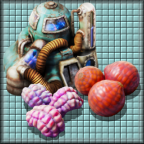
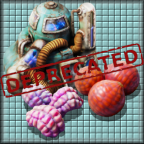
refactor: migrate to frozen food and more

Changed region(s): [[0.0, 0.2778, 1.0, 0.6944]]

diff --git a/README.md b/README.md
@@ -1,28 +1,6 @@
 [![The Foundry](https://img.shields.io/badge/foundrygg-4a1402?style=for-the-badge&logo=vercel&logoColor=white)](https://foundrygg.com/)
 [![Discord community](https://img.shields.io/badge/Discord-%235865F2.svg?style=for-the-badge&logo=discord&logoColor=white)](https://discord.gg/SYmkaDjFCt)
-[![Factorio mod portal](https://img.shields.io/factorio-mod-portal/dt/frozen-food-aquilo-seabloom-algaculture?style=for-the-badge&logo=data%3Aimage%2Fx-icon%3Bbase64%2CAAABAAEAEBAAAAEACABoBQAAFgAAACgAAAAQAAAAIAAAAAEACAAAAAAAAAEAAAAAAAAAAAAAAAEAAAAAAAAAAAAALzAtABIVFwBBOSwAISYpAB0iJACTfFQAICQnAEk%2FLAAcICIAsZZlADs4MABsXUIAd2hMAINzVgChi2QAPTozAIt6WwAWGhsAs5prABwgIwC1nG4AKSglAEpGOwBhVDwAGx4hAGJUPABoXkkAMiwiAGleSQCwmW8AtJpsALigdABnXEcAi3ZPAFhNOACDb0sAIicqAEtCLwAxMzEAEhQWAE1EMgAgJSgAISUoAJV%2FWACrkmQAHyMmAIFwUgAbHyEAsJVkAG5gRgAXGxwAHSEkAKCKYwCzmWoAsJhtACIhHAAbHyIAeWtRADo3MACxmnAAtZttACMoKgAaHSAAPzcoABYZGwASFRYAX1ZEAINwTABKRTsAIygrAJqDWABoXUkAHyQmAAAAAAAAAAAAAAAAAAAAAAAAAAAAAAAAAAAAAAAAAAAAAAAAAAAAAAAAAAAAAAAAAAAAAAAAAAAAAAAAAAAAAAAAAAAAAAAAAAAAAAAAAAAAAAAAAAAAAAAAAAAAAAAAAAAAAAAAAAAAAAAAAAAAAAAAAAAAAAAAAAAAAAAAAAAAAAAAAAAAAAAAAAAAAAAAAAAAAAAAAAAAAAAAAAAAAAAAAAAAAAAAAAAAAAAAAAAAAAAAAAAAAAAAAAAAAAAAAAAAAAAAAAAAAAAAAAAAAAAAAAAAAAAAAAAAAAAAAAAAAAAAAAAAAAAAAAAAAAAAAAAAAAAAAAAAAAAAAAAAAAAAAAAAAAAAAAAAAAAAAAAAAAAAAAAAAAAAAAAAAAAAAAAAAAAAAAAAAAAAAAAAAAAAAAAAAAAAAAAAAAAAAAAAAAAAAAAAAAAAAAAAAAAAAAAAAAAAAAAAAAAAAAAAAAAAAAAAAAAAAAAAAAAAAAAAAAAAAAAAAAAAAAAAAAAAAAAAAAAAAAAAAAAAAAAAAAAAAAAAAAAAAAAAAAAAAAAAAAAAAAAAAAAAAAAAAAAAAAAAAAAAAAAAAAAAAAAAAAAAAAAAAAAAAAAAAAAAAAAAAAAAAAAAAAAAAAAAAAAAAAAAAAAAAAAAAAAAAAAAAAAAAAAAAAAAAAAAAAAAAAAAAAAAAAAAAAAAAAAAAAAAAAAAAAAAAAAAAAAAAAAAAAAAAAAAAAAAAAAAAAAAAAAAAAAAAAAAAAAAAAAAAAAAAAAAAAAAAAAAAAAAAAAAAAAAAAAAAAAAAAAAAAAAAAAAAAAAAAAAAAAAAAAAAAAAAAAAAAAAAAAAAAAAAAAAAAAAAAAAAAAAAAAAAAAAAAAAAAAAAAAAAAAAAAAAAAAAAAAAAAAAAAAAAAAAAAAAAAAAAAAAAAAAAAAAAAAAAAAAAAAAAAAAAAAAAAAAAAAAAAAAAAAAAAAAADExMTExEyAgEzExMTExADExMRMVCi8EBC8KFTYxMTExMT0OGx5DJSVDHkgRHzExMTEyB0YnRiUlPidGBw0xMTExGi5GJS4JOS4lRkkpMTExHzcrRi4SHEBBLkYrNxUKMTpFRiUURDExRAklRhchLTE%2FKyU%2BCzExMTE7JSUqGSwxAj8qRgEVCgoVEEYqPwIGMSQMSUYlHTw8HSVGSQwiMTExDwclJSVGRiUlPgc1MTExMQMwNBQuJSUuFAU5IzExMTEiOEImFklJFiYCKCQxMTExMUckMRgzMxgxJCIxMTExMTExMTEiCAgiMTExMTExADExMTExMTExMTExMTExAIABAAAAAAAAAAAAAAAAAAAAAAAAAAAAAAAAAAAAAAAAAAAAAAAAAAAAAAAAAAAAAAAAAAAAAAAAAAAAAIABAAA%3D&color=orange&labelColor=rgb(111,148,173))](https://mods.factorio.com/mod/frozen-food-aquilo-seabloom-algaculture)
-[![Crowdin translate](https://img.shields.io/badge/Crowdin-Translate-cornflowerblue?style=for-the-badge)](https://crowdin.com/project/factorio-mods-localization)
-[![GitHub issues: bugs](https://img.shields.io/github/issues/QuingKhaos/frozen-food-aquilo-seabloom-algaculture/bug?label=Bug%20Reports&style=for-the-badge&logo=github)](https://github.com/QuingKhaos/frozen-food-aquilo-seabloom-algaculture/issues?q=is%3Aissue%20state%3Aopen%20label%3Abug)
-[![GitHub pull requests](https://img.shields.io/github/issues-pr/QuingKhaos/frozen-food-aquilo-seabloom-algaculture?label=Pull%20Requests&style=for-the-badge&logo=github)](https://github.com/QuingKhaos/frozen-food-aquilo-seabloom-algaculture/pulls)
 
-# Frozen Food for Wooden Aquilo: Seabloom Algaculture
+# [DEPRECATED] Frozen Food for Wooden Aquilo: Seabloom Algaculture
 
-Adds [frozen food](https://mods.factorio.com/mod/FrozenFood) support to [Seabloom Algaculture](https://mods.factorio.com/mod/aquilo-seabloom-algaculture).
-
-## All my Frozen Food mods
-
-- [Frozen Food Library][FrozenFoodLib] - Small library to create Frozen Food dynamically.
-- [Frozen Food Tweaks][FrozenFoodTweaks] - Opinionated tweaks to Frozen Food.
-- [Frozen Food for Wooden Aquilo: Seabloom Algaculture][aquilo-seabloom-algaculture] - Adds frozen food support to
-  Seabloom Algaculture.
-- [Frozen Food for Wooden Fulgora: Coralmium Agriculture][fulgora-coralmium-agriculture] - Adds frozen food support to
-  Coralmium Agriculture.
-- [Frozen Food for Gleba Juice][gleba-juice] - Adds frozen food support for Gleba Juice.
-- [Frozen Food for Lignumis][lignumis] - Adds frozen food support to Lignumis.
-
-[FrozenFoodLib]: https://mods.factorio.com/mod/FrozenFoodLib
-[FrozenFoodTweaks]: https://mods.factorio.com/mod/FrozenFoodTweaks
-[aquilo-seabloom-algaculture]: https://mods.factorio.com/mod/frozen-food-aquilo-seabloom-algaculture
-[fulgora-coralmium-agriculture]: https://mods.factorio.com/mod/frozen-food-fulgora-coralmium-agriculture
-[gleba-juice]: https://mods.factorio.com/mod/frozen-food-gleba-juice
-[lignumis]: https://mods.factorio.com/mod/frozen-food-lignumis
+Functionality migrated to [Frozen Food and More](https://mods.factorio.com/mod/frozen-food-and-more).